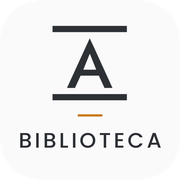
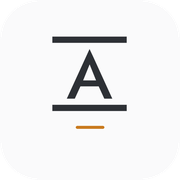
Add files via upload

Changed region(s): [[0.2778, 0.1389, 0.7222, 0.6667], [0.1111, 0.6944, 0.6111, 0.8333], [0.6389, 0.7222, 0.8889, 0.8333]]

diff --git a/index.html b/index.html
@@ -3,7 +3,7 @@
 <meta charset="utf-8"><meta name="viewport" content="width=device-width,initial-scale=1">
 <title>Biblioteca de Prompts · Artigas Abogados</title>
[2 lines of base64/hex data omitted]
+<link rel="apple-touch-icon" href="apple-touch-icon.png">
[1 lines of base64/hex data omitted]
 <link rel="preconnect" href="https://fonts.googleapis.com"><link rel="preconnect" href="https://fonts.gstatic.com" crossorigin>
 <link href="https://fonts.googleapis.com/css2?family=Geist:wght@400;500;600;700&family=Geist+Mono:wght@400;500&family=Jost:wght@500;600;700&display=swap" rel="stylesheet">
